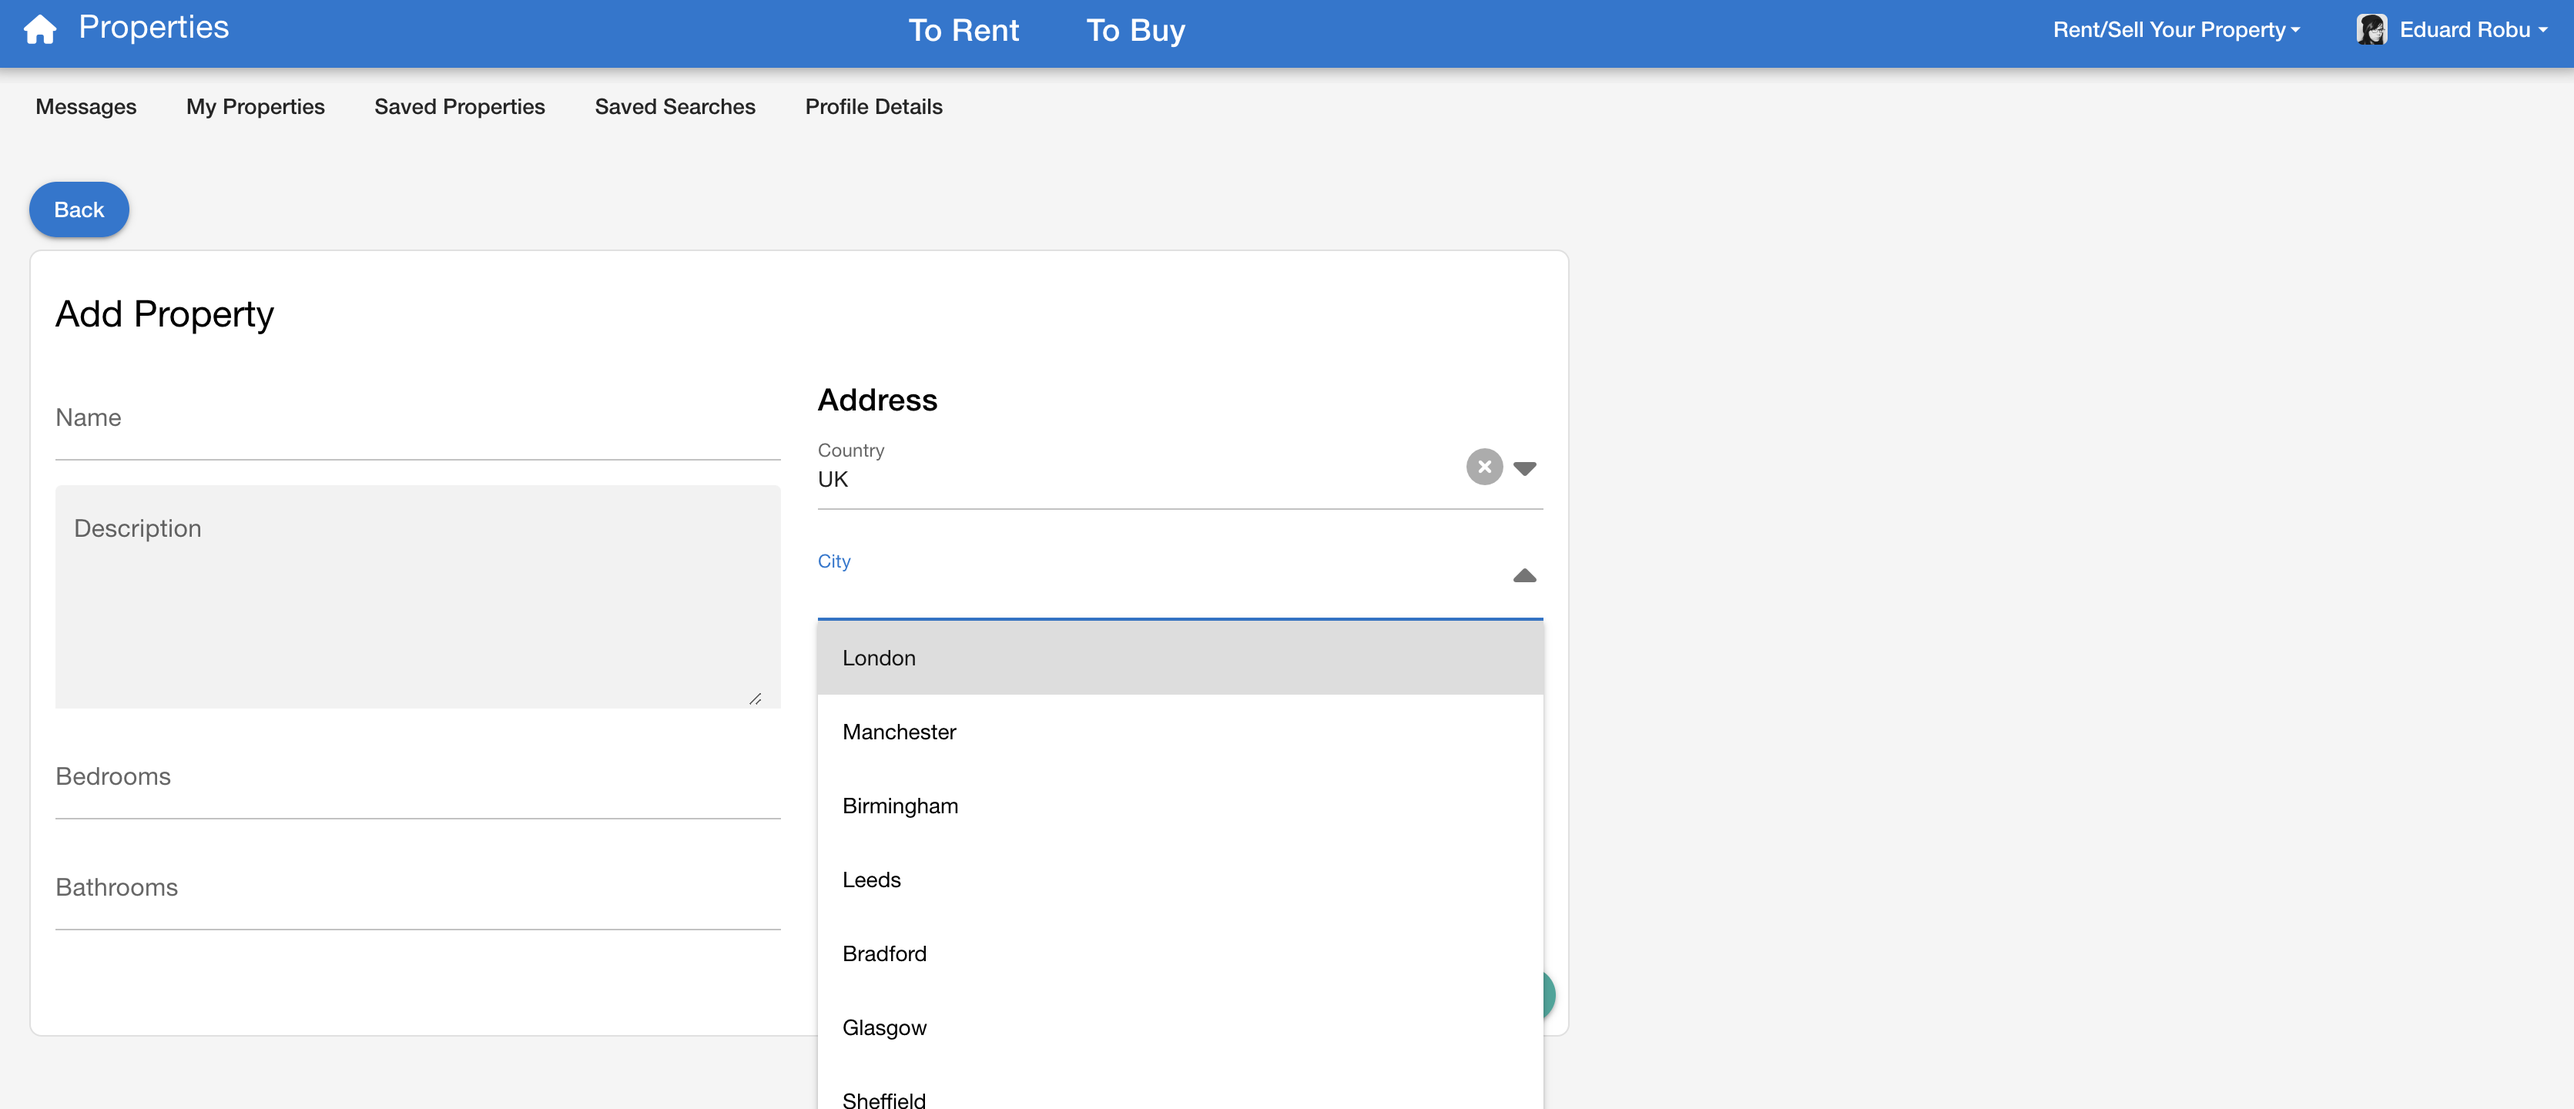
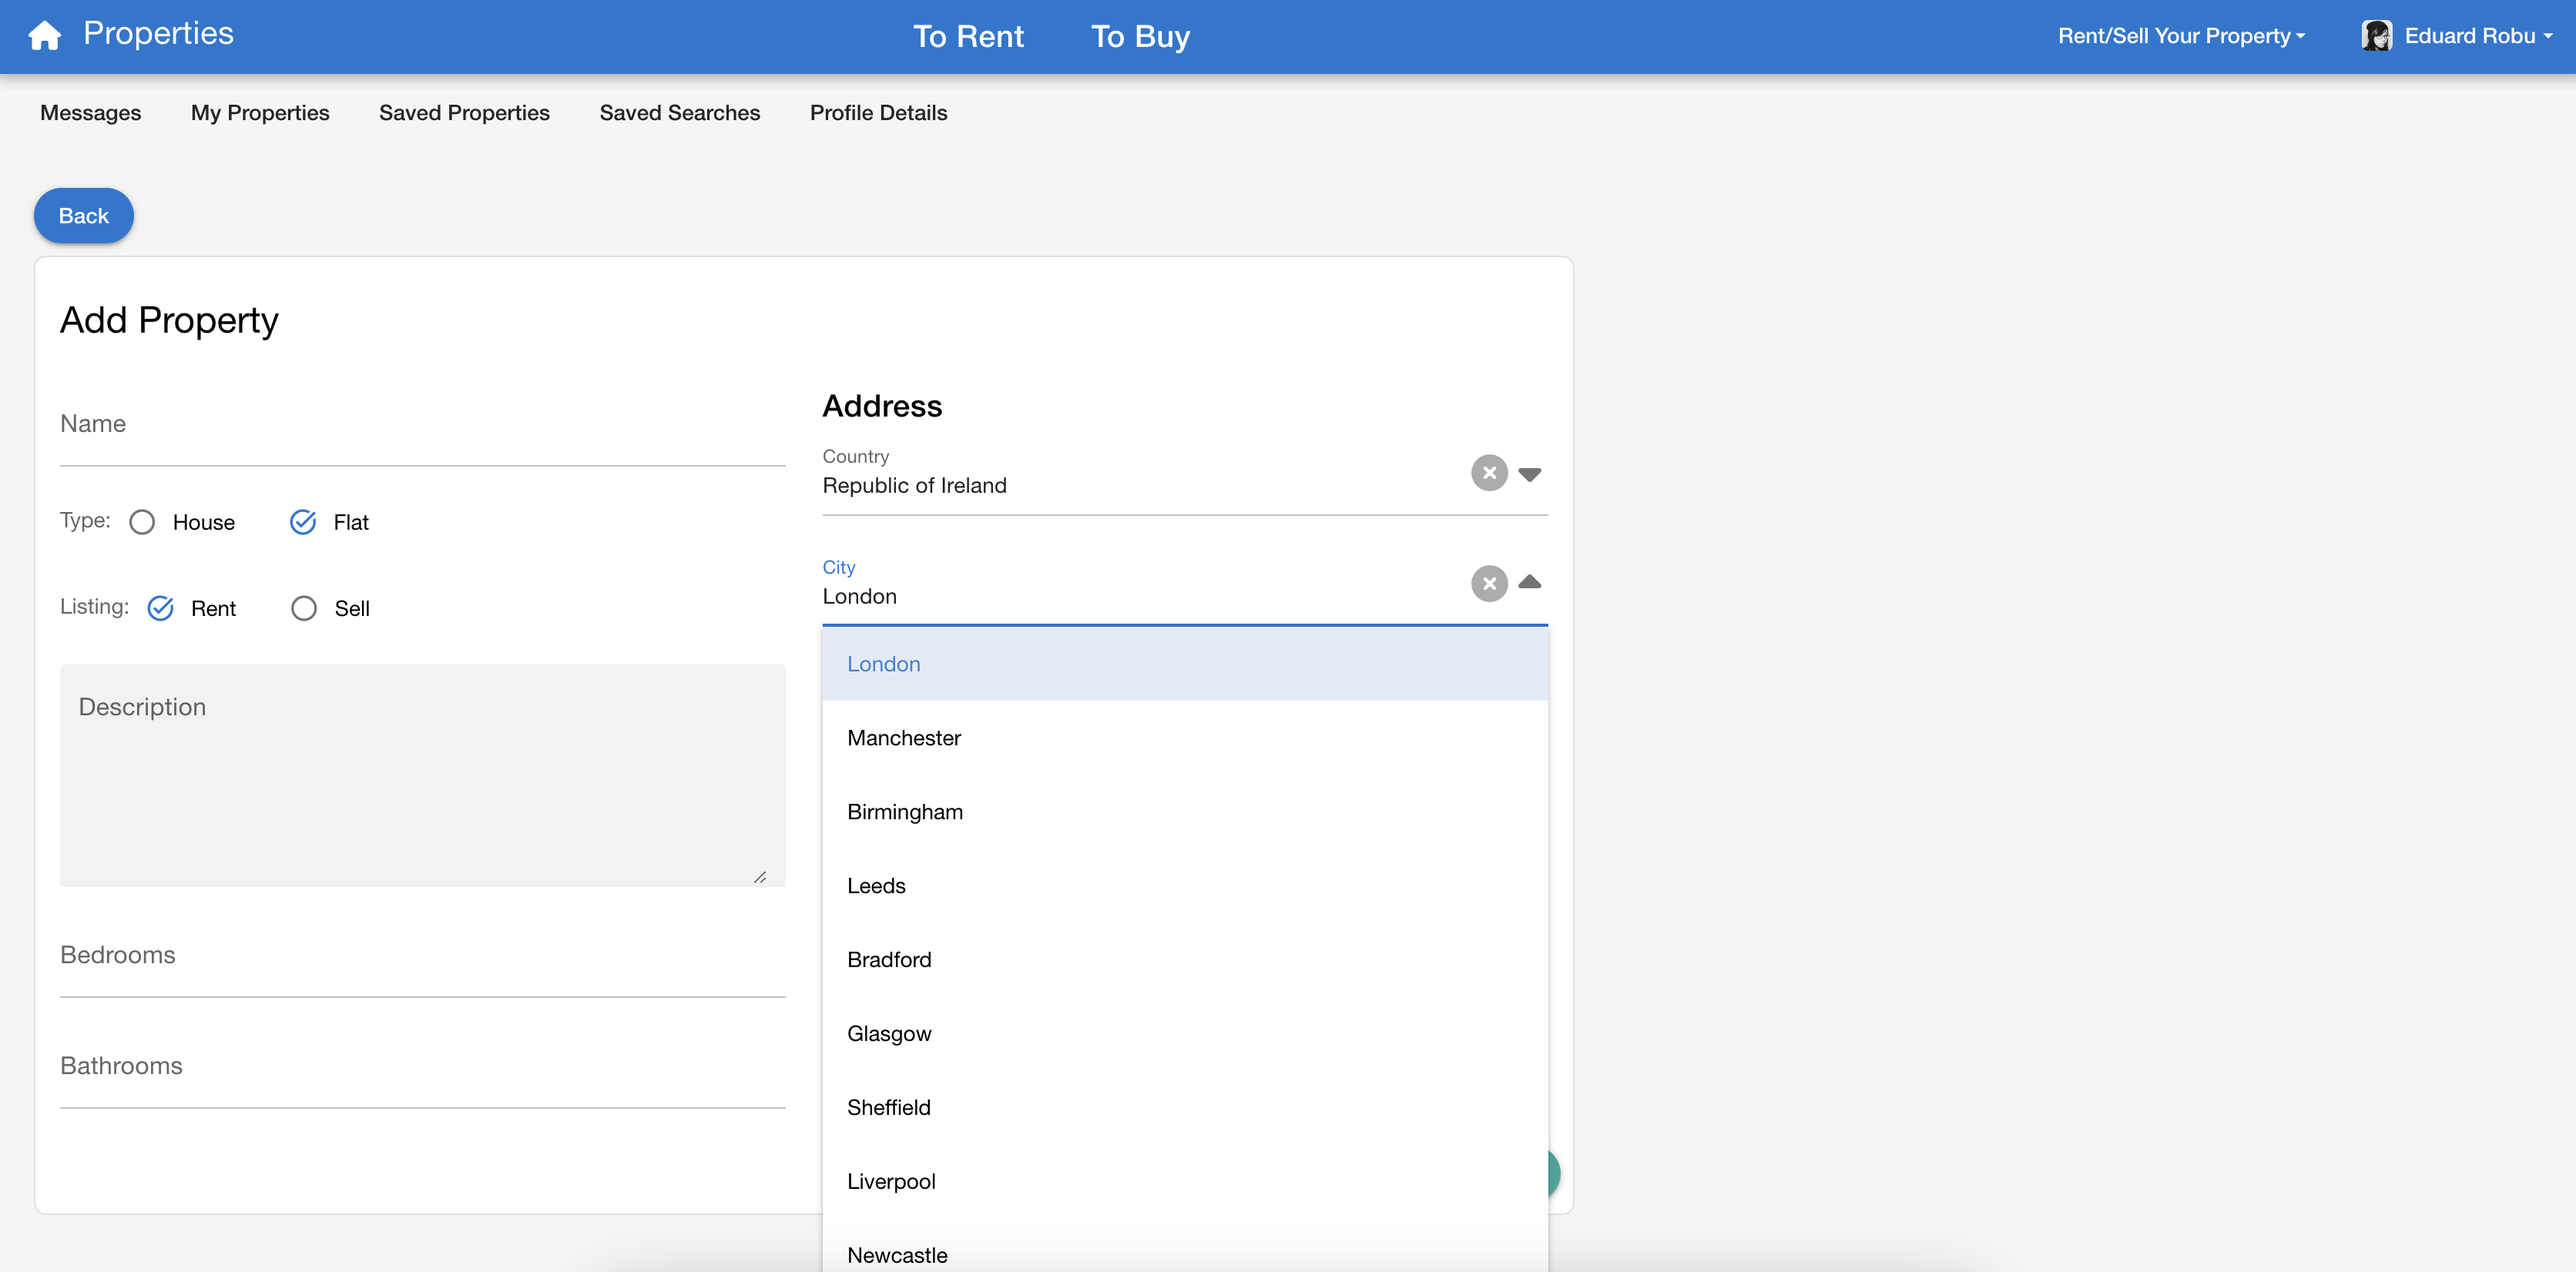
readme update

diff --git a/resources/js/components/inputs/PropertyTypeInput.vue b/resources/js/components/inputs/PropertyTypeInput.vue
@@ -1,1 +1,30 @@
-<template></template>
+<template>
+    <div>
+        <span class="grey-txt">Type:</span>
+        <q-radio class="q-pr-lg" v-for="propertyType in propertyTypeStore.propertyTypes" v-model="propertyTypeId" checked-icon="task_alt" unchecked-icon="panorama_fish_eye" :val="propertyType.id" :label="propertyType.name.capitalize()" />
+    </div>
+
+    <!-- <q-select v-model="propertyTypeId" option-value="id"  option-label="name" :options="propertyTypeStore.propertyTypes" label="Property Type" :clearable="true" ></q-select> -->
+</template>
+
+<script setup>
+import { onMounted, computed } from "vue";
+import { usePropertyTypeStore } from "@/store/propertyType.store";
+
+const props = defineProps(['modelValue'])
+const emit = defineEmits(['update:modelValue'])
+
+const propertyTypeId = computed({
+  get() {
+    return props.modelValue
+  },
+  set(value) {
+    emit('update:modelValue', value)
+  }
+})
+
+const propertyTypeStore = usePropertyTypeStore()
+onMounted(() => {
+    propertyTypeStore.getAll()
+})
+</script>

diff --git a/resources/js/components/inputs/ListingTypeInput.vue b/resources/js/components/inputs/ListingTypeInput.vue
@@ -1,1 +1,29 @@
-<template></template>
+<template>
+  <div>
+    <span class="grey-txt">Listing:</span>
+    <q-radio class="q-pr-lg" v-for="listingType in listingTypeStore.listingTypes" v-model="listingTypeId" checked-icon="task_alt" unchecked-icon="panorama_fish_eye" :val="listingType.id" :label="listingType.name.capitalize()" />
+  </div>
+    <!-- <q-select v-model="listingTypeId" option-value="id"  option-label="name" :options="listingTypeStore.listingTypes" label="Listing Type" :clearable="true" ></q-select> -->
+</template>
+
+<script setup>
+import { onMounted, computed } from "vue";
+import { useListingTypeStore } from "@/store/listingType.store";
+
+const props = defineProps(['modelValue'])
+const emit = defineEmits(['update:modelValue'])
+
+const listingTypeId = computed({
+  get() {
+    return props.modelValue
+  },
+  set(value) {
+    emit('update:modelValue', value)
+  }
+})
+
+const listingTypeStore = useListingTypeStore()
+onMounted(() => {
+    listingTypeStore.getAll()
+})
+</script>

diff --git a/resources/js/components/forms/PropertyFormCard.vue b/resources/js/components/forms/PropertyFormCard.vue
@@ -8,9 +8,9 @@
                         <div class="col q-gutter-md">
                             <q-input v-model="property.name" label="Name" />
 
-                            <PropertyTypeInput />
+                            <PropertyTypeInput v-model="property.propertyType"/>
 
-                            <ListingTypeInput/>
+                            <ListingTypeInput v-model="property.listingType"/>
 
                             <q-input v-model="property.description" filled type="textarea" label="Description" />
 
@@ -46,5 +46,7 @@ const property = reactive({
     description: null,
     bedrooms: null,
     bathrooms: null,
+    listingType: null,
+    propertyType: null
 })
 </script>

diff --git a/resources/js/app.js b/resources/js/app.js
@@ -12,11 +12,13 @@ import 'quasar/src/css/index.sass'
 import '@quasar/extras/fontawesome-v6/fontawesome-v6.css'
 
 //notifications
-import Toast, {POSITION} from "vue-toastification";
-import "vue-toastification/dist/index.css";
+import Toast, {POSITION} from "vue-toastification"
+import "vue-toastification/dist/index.css"
 
 //api
-import './api';
+import './api'
+
+import './bootstrap'
 
 //app custom scss
 import './../scss/app.scss'

diff --git a/resources/js/bootstrap.js b/resources/js/bootstrap.js
@@ -27,3 +27,10 @@
 //     forceTLS: (import.meta.env.VITE_PUSHER_SCHEME ?? 'https') === 'https',
 //     enabledTransports: ['ws', 'wss'],
 // });
+
+Object.defineProperty(String.prototype, 'capitalize', {
+    value: function() {
+      return this.charAt(0).toUpperCase() + this.slice(1);
+    },
+    enumerable: false
+});

diff --git a/resources/scss/app.scss b/resources/scss/app.scss
@@ -91,3 +91,6 @@
 .q-card {
     border-radius: 8px; 
 }
+.grey-txt{
+    color: rgba(0, 0, 0, 0.6);
+}
